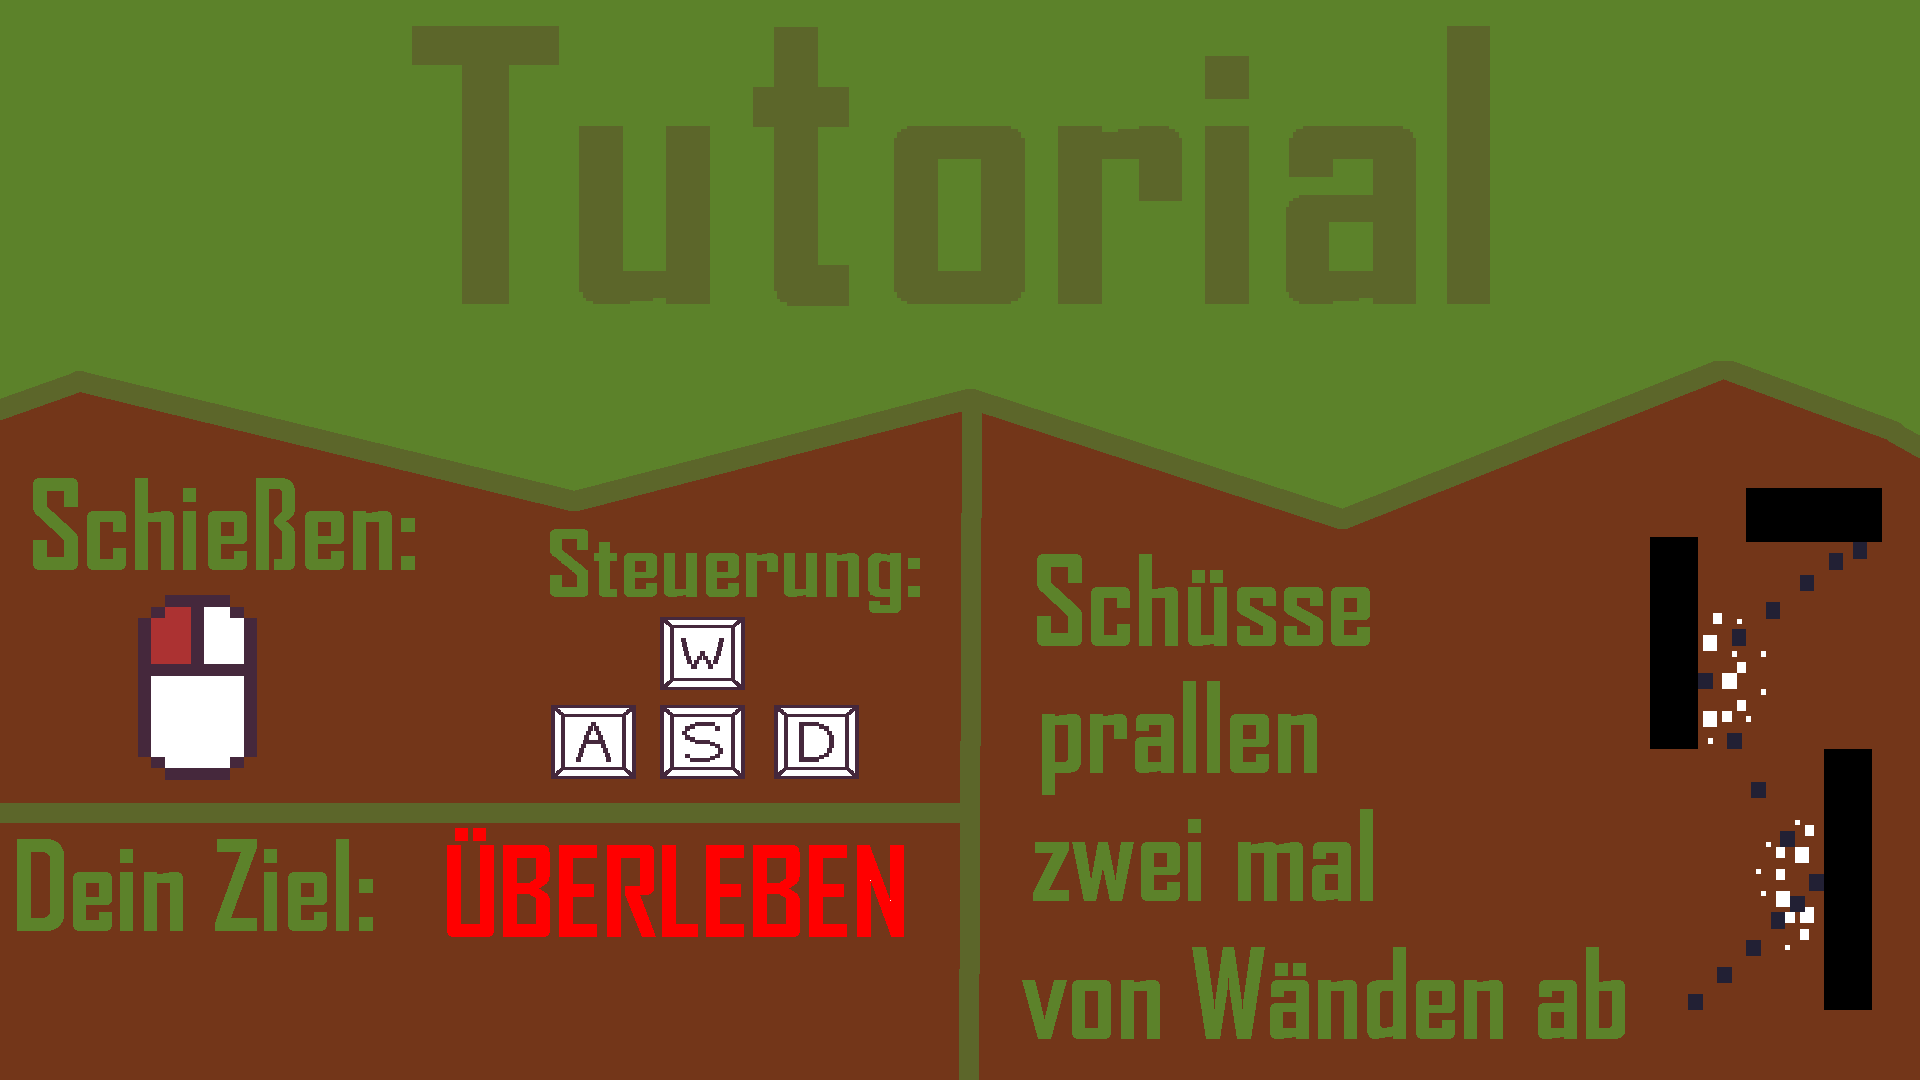
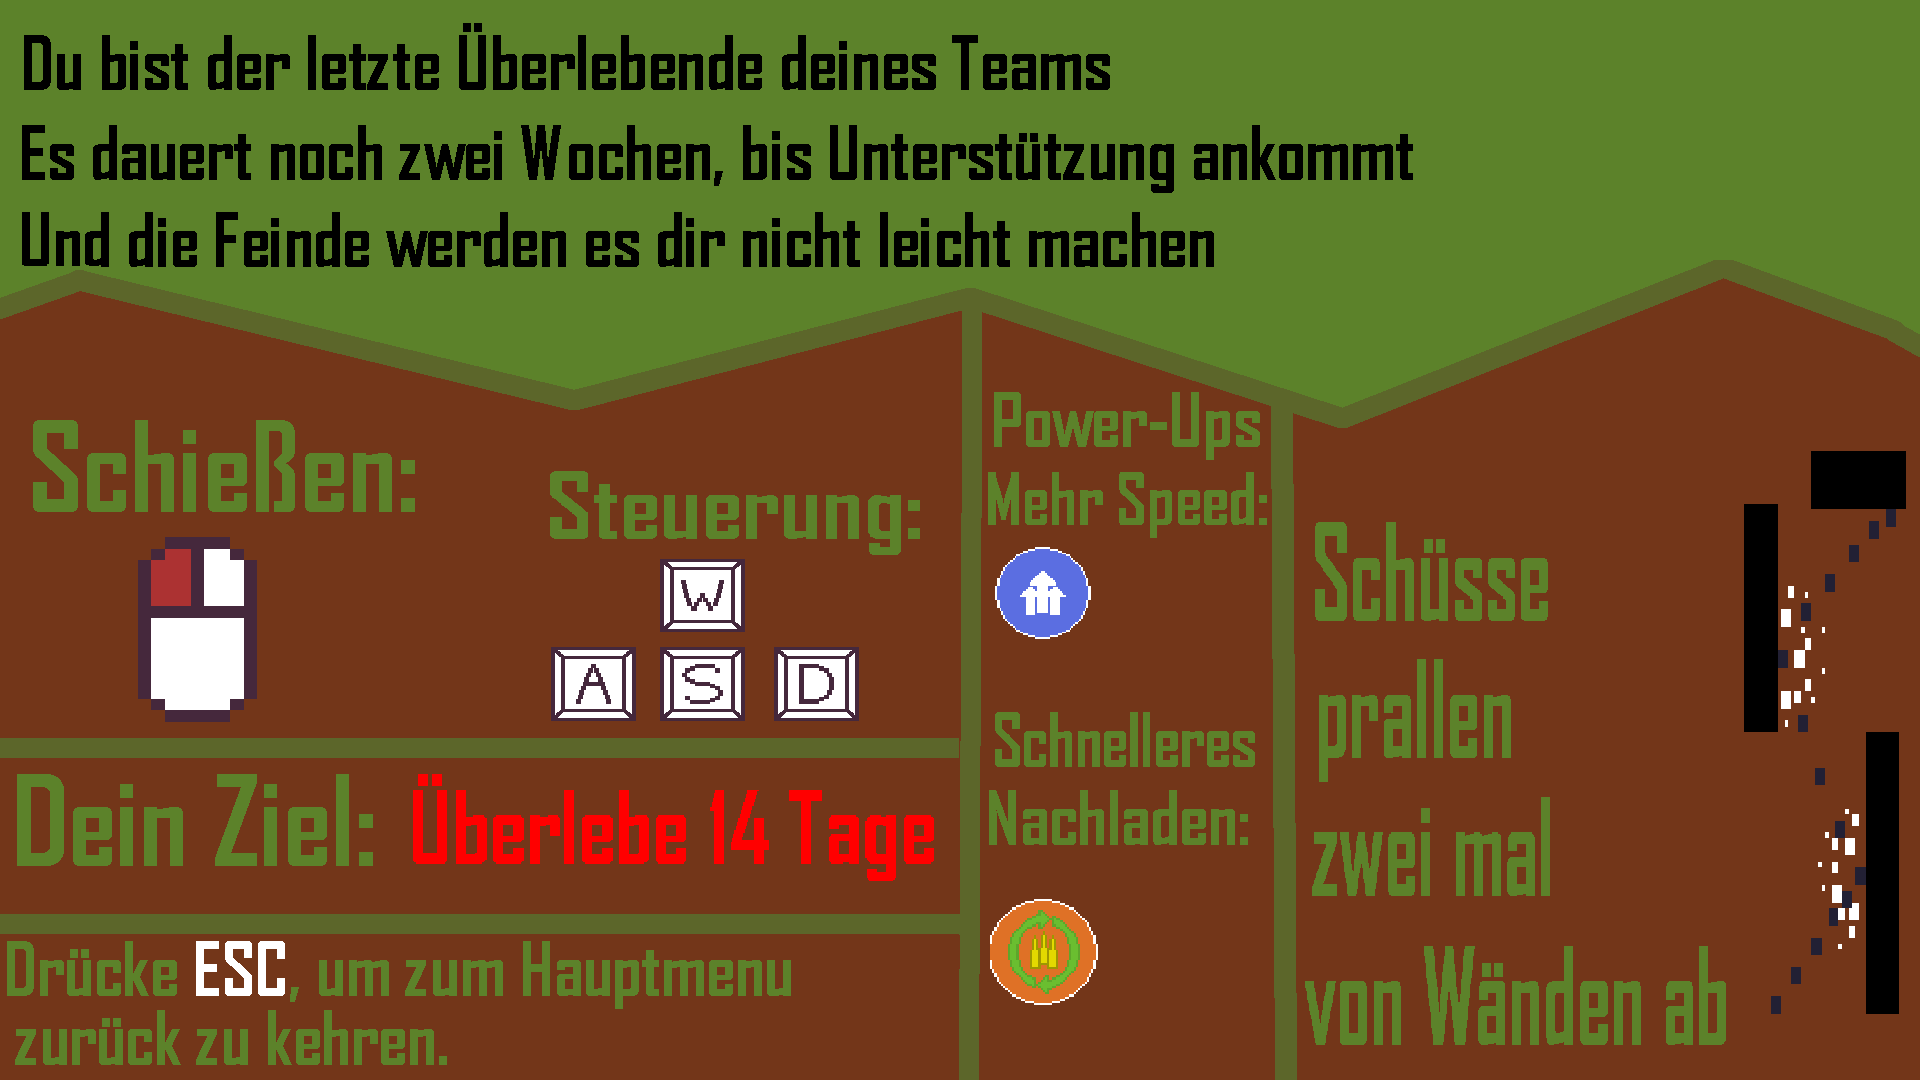
Spiel hat ein Ende / Tutorial Update

diff --git a/src/Styles/postgame.css b/src/Styles/postgame.css
@@ -23,6 +23,31 @@
     -fx-effect: none;
 }
 
+.widebutton {
+    -fx-background-color: #f0f0f0;
+    -fx-border-color: transparent;
+    -fx-border-radius: 20px;
+    -fx-background-radius: 20px;
+    -fx-text-fill: #333;
+    -fx-font-size: 16px;
+    -fx-font-weight: bold;
+    -fx-padding: 12px 28px;
+    -fx-effect: dropshadow(gaussian, rgba(0, 0, 0, 0.1), 6, 0, 0, 4);
+    -fx-transition: all 0.3s ease-in-out;
+    -fx-pref-width: 400px;
+    -fx-pref-height: 35px;
+}
+
+.widebutton:hover {
+    -fx-background-color: #e0e0e0;
+    -fx-effect: dropshadow(gaussian, rgba(0, 0, 0, 0.2), 10, 0, 0, 4);
+}
+
+.widebutton:pressed {
+    -fx-background-color: #d0d0d0;
+    -fx-effect: none;
+}
+
 
 .slider {
     -fx-background-color: #f0f0f0;

diff --git a/Hauptmenu.java b/Hauptmenu.java
@@ -54,8 +54,6 @@ public class Hauptmenu extends Application {
     buttons.setLayoutX(0);
     buttons.setLayoutY(50);
 
-    berechneHighscore();
-
     highscoreLabel.getStyleClass().add("label");
     highscoreLabel.setPrefHeight(33);
     highscoreLabel.setText("Highscore: " + highscore);
@@ -210,11 +208,7 @@ public class Hauptmenu extends Application {
     tutorialButton.setVisible(false);
     spielBeendenButton.setVisible(false);
     highscoreLabel.setVisible(false);
-    // Der FullScreenExitHint wird genutzt, um kurz eine Nachricht auf dem
-    // Bildschirm gut sichtbar anzuzeigen
-    stage.setFullScreenExitHint("Drücke eine beliebige Taste um zum Hauptmenu zurück zu kehren.");
-    stage.setFullScreen(false);
-    Platform.runLater(() -> stage.setFullScreen(true));
+
     // Key Listener, damit man zum Hauptmenu zurück kommt
     scene.setOnKeyPressed(event -> zurueckButton_Action(event));
     tutorialGeschaut = true;
@@ -241,12 +235,5 @@ public class Hauptmenu extends Application {
     }
   }
 
-  public void berechneHighscore() {
-    if (Settings.highscore > highscore) {
-      highscore = Settings.highscore;
-      highscoreLabel.setText("Highscore: " + highscore);
-    } else {
-      highscoreLabel.setText("Highscore: " + highscore);
-    }
-  }
+  
 }

diff --git a/PostGame.java b/PostGame.java
@@ -65,10 +65,18 @@ public class PostGame {
         text1 = new Label("Tag " + level + " geschafft!");
       } else {
         nextRound.setOnAction((event) -> neuerTry(event));
-        nextRound.setText("Erneut versuchen");
+        nextRound.setText("Neue Mission starten");
         nextRound.getStyleClass().add("button");
         nextRound.setVisible(true);
         text1 = new Label("An Tag " + level + " gescheitert!");
+      }
+
+      if(level == 14){
+        nextRound.getStyleClass().add("widebutton");
+        hauptmenu.getStyleClass().add("widebutton");
+        text1.setText("Du hast 14 Tage überlebt! \nHerzlichen Glückwunsch!");
+        nextRound.setText("Mal schauen, wie lange du es schaffst!");
+        hauptmenu.setText("Mission abbrechen und zurück zur Familie");
       }
       text1.getStyleClass().add("label");
       text1.setVisible(true);

diff --git a/Settings.java b/Settings.java
@@ -1,7 +1,7 @@
 
 public class Settings {
   public static double lautstaerke = 0.25;
-  public static int highscore = 0;
+  public static int highscore = TxtManager.readHighscore();
   public static boolean tutorialGeschaut = false;
   public static int refreshRate = 60;
 }
